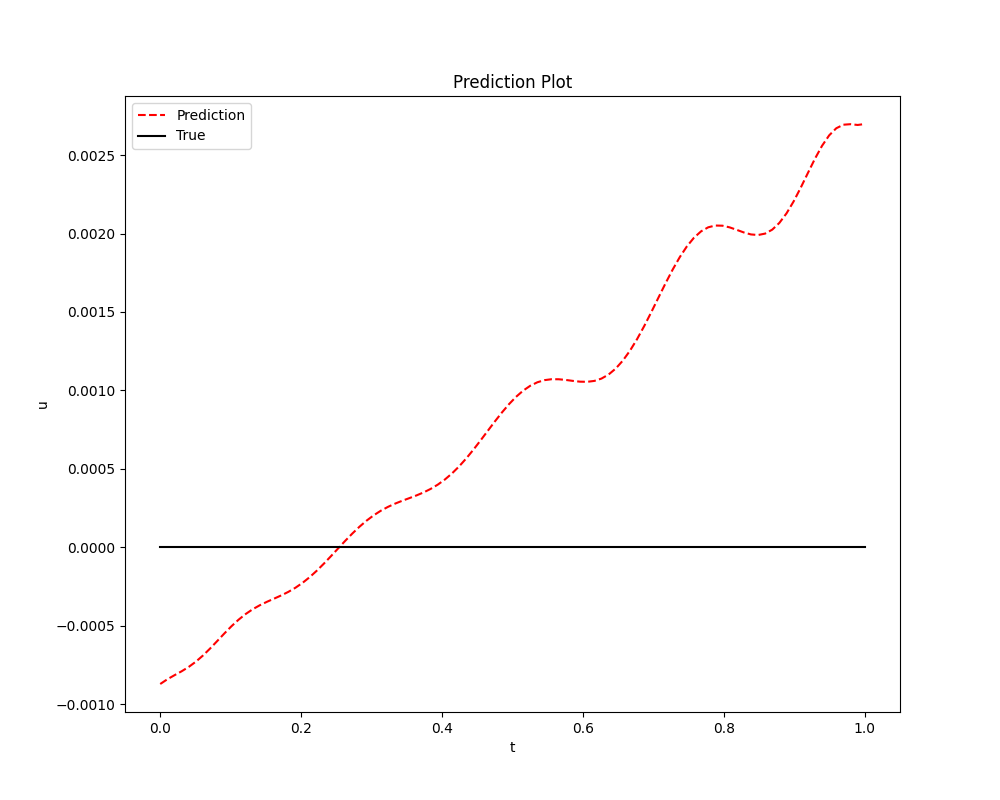
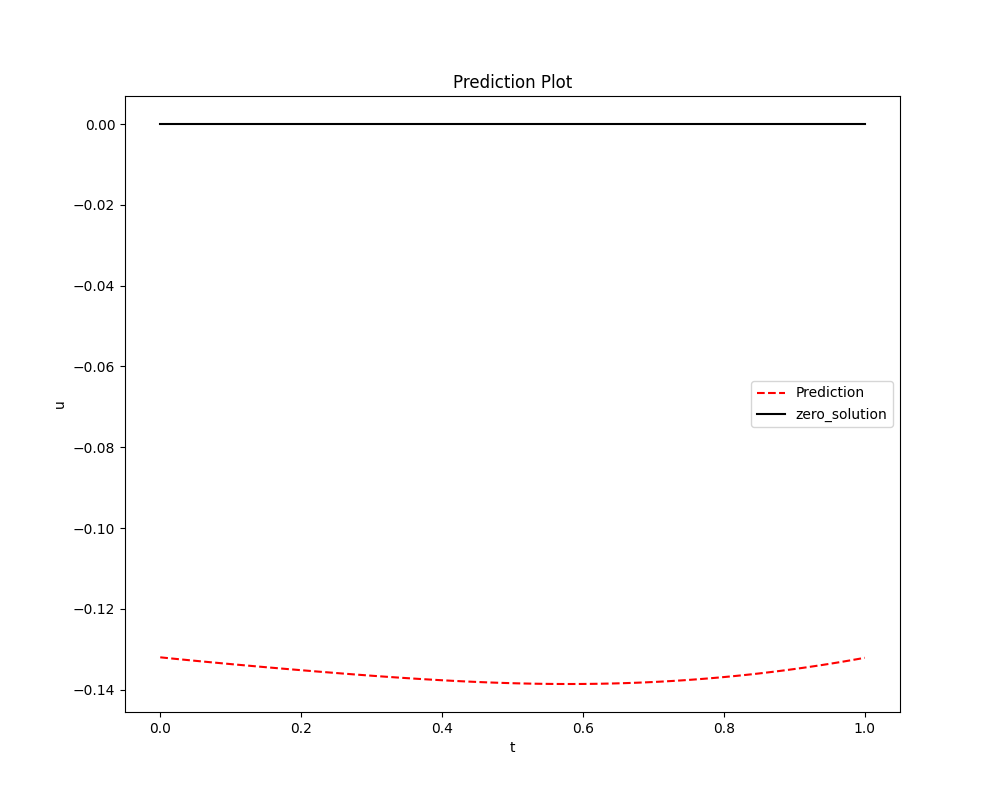
‘new’

diff --git a/pde_solver.py b/pde_solver.py
@@ -7,11 +7,10 @@ import math
 tf.keras.backend.set_floatx('float64')
 
 def sine_activation(x):
-    return tf.sin(2*math.pi*x)
+    return tf.sin(2 * math.pi * x)
 
 NN = tf.keras.models.Sequential([
     tf.keras.layers.Input((1,)),
-    tf.keras.layers.Dense(units=32, activation=sine_activation),
     tf.keras.layers.Dense(units=32, activation=sine_activation),
     tf.keras.layers.Dense(units=1)
 ])
@@ -21,7 +20,7 @@ NN.summary()
 optm = tf.keras.optimizers.Adam(learning_rate=0.001)
 
 def ode_system(t, net):
-    t = tf.constant(t.reshape(-1, 1), dtype=tf.float64)
+    t = tf.reshape(t, [-1, 1])
     t_0 = tf.zeros((1, 1), dtype=tf.float64)
     t_1 = tf.ones((1, 1), dtype=tf.float64)
     zeros = tf.zeros((1, 1), dtype=tf.float64)
@@ -36,24 +35,24 @@ def ode_system(t, net):
     u_tt = tape1.gradient(u_t, t)
     u_t2 = 2 * u * u_t  # Chain rule for derivative of u*u with respect to t
 
-    ode_loss = - u_tt + u_t2
+    ode_loss = - u_tt + u_t2 + tf.sin(t/10)
     IC_loss = net(t_0) - zeros
     EC_loss = net(t_1) - zeros
     BC_loss = net(t_1) - net(t_0)
 
-    square_loss = tf.square(ode_loss) + tf.square(BC_loss) + tf.square(IC_loss) + tf.square(EC_loss)
+    square_loss = tf.square(ode_loss) + tf.square(BC_loss)
     total_loss = tf.reduce_mean(square_loss)
 
     del tape1  # Clean up
 
-    return total_loss
+    return total_loss, ode_loss
 
-train_t = np.linspace(0, 1, 100).reshape(-1, 1).astype(np.float64)
+train_t = np.linspace(0, 1, 1001).reshape(-1, 1).astype(np.float64)
 train_loss_record = []
 
-for itr in range(2000):
+for itr in range(3000):
     with tf.GradientTape() as tape:
-        train_loss = ode_system(train_t, NN)
+        train_loss, _ = ode_system(tf.constant(train_t), NN)
         train_loss_record.append(train_loss.numpy())
 
         grad_w = tape.gradient(train_loss, NN.trainable_variables)
@@ -76,67 +75,98 @@ test_t = np.linspace(0, 1, 100).astype(np.float64)
 pred_u = NN.predict(test_t).ravel()
 
 ## TODO For the Neural Network above, find the bound for the derivative of F_approx (using Summation)
-def spectral_norm(matrix):
-    singular_values = tf.linalg.svd(matrix, compute_uv=False)
-    return tf.reduce_max(singular_values)
+def NN_derivative(t, net):
+    """
+    Compute the derivative of the neural network 
+    """
+    # Ensure t is a tensor and has the correct shape
+    t = tf.convert_to_tensor(t, dtype=tf.float64)
+    t = tf.reshape(t, [-1, 1])
+    
+    with tf.GradientTape() as tape:
+        tape.watch(t)
+        u = net(t)
+    
+    u_t = tape.gradient(u, t)
+    return u_t
 
-# Function to calculate the Lipschitz constant for the neural network
-def calculate_lipschitz_constant(model):
-    max_derivative = 2 * np.pi  # Maximum absolute value of derivative of sine(2πx)
-    lipschitz_constant = 1.0
-    for layer in model.layers:
-        if isinstance(layer, tf.keras.layers.Dense):
-            weights = layer.get_weights()[0]
-            norm = spectral_norm(weights)
-            lipschitz_constant *= norm * max_derivative
-    return lipschitz_constant
+def F_derivative(t, net):
+    """
+    Compute the value of the derivative function:
+    - d^3f/dx^3 + 2 * ((df/dx)^2 + f * d^2f/dx^2)
+    """
+    t = tf.convert_to_tensor(t, dtype=tf.float64)
+    t = tf.reshape(t, [-1, 1])
+    
+    with tf.GradientTape(persistent=True) as tape3:
+        tape3.watch(t)
+        with tf.GradientTape(persistent=True) as tape2:
+            tape2.watch(t)
+            with tf.GradientTape() as tape1:
+                tape1.watch(t)
+                f = net(t)
+            df_dx = tape1.gradient(f, t)
+        d2f_dx2 = tape2.gradient(df_dx, t)
+    d3f_dx3 = tape3.gradient(d2f_dx2, t)
+    
+    result = -d3f_dx3 + 2 * ((df_dx ** 2) + f * d2f_dx2)
+    
+    del tape1, tape2, tape3  # Clean up
+    
+    return result
 
-# Calculate the Lipschitz constant
-lipschitz_constant = calculate_lipschitz_constant(NN)
-print(f"Lipschitz constant: {lipschitz_constant}")
+def Lipschitz_constant(t, net):
+    constant = NN_derivative(t, net) * F_derivative(t, net)
+    return constant
 
 
 ## TODO Lipshitz methods
+
+# Function to calculate the residuals
+def calculate_residuals(t, net):
+    t_tensor = tf.constant(tf.reshape(t, [-1, 1]), dtype=tf.float64)
+    _, residuals = ode_system(t_tensor, net)
+    return residuals
+
+
+
 # Define the points where we need to evaluate the error
 x_points = np.linspace(0, 1, 1001).astype(np.float64)
-x_i = x_points[::100]  # For simplicity, taking every 100th point as x_i
+x_i = x_points
+
+# Calculate the Lipschitz constant
+lipschitz_constant = Lipschitz_constant(x_i, NN)
+print(f"Lipschitz constant: {lipschitz_constant}")
 
 # Calculate the difference bound
 error_bounds = []
-for x in x_points:
-    nearest_x_i = min(x_i, key=lambda xi: abs(x - xi))  # Find the nearest x_i
-    error_bound = lipschitz_constant * abs(x - nearest_x_i)
+for i,x in enumerate(x_points):
+    error_bound = lipschitz_constant[i][0] * 1/1000
     error_bounds.append(error_bound)
 
-# Convert to numpy array for easier manipulation
 error_bounds = np.array(error_bounds)
 
-# Evaluate the model at these points
-predictions = NN.predict(x_points).ravel()
+residuals = calculate_residuals(x_i, NN).numpy().ravel()
 
-# Calculate the total error bound
-total_errors = np.abs(predictions) + error_bounds
+# |F(f_approx)(x)| < | F(f)(x_i)| (Known) + | F(f)(x) - F(f)(x_i) |
+total_errors = np.abs(residuals) + error_bounds[:len(residuals)]
 
-# Print or plot the error bounds and predictions
-import matplotlib.pyplot as plt
 
 plt.figure(figsize=(10, 8))
-plt.plot(x_points, predictions, '--r', label='Prediction')
-plt.plot(x_points, error_bounds, ':b', label='Error Bound')
-plt.plot(x_points, total_errors, '-g', label='Total Error')
+plt.plot(x_points[:len(residuals)], residuals, '--r', label='Residuals')
+plt.plot(x_points[:len(residuals)], error_bounds[:len(residuals)], ':b', label='Error Bound')
+plt.plot(x_points[:len(residuals)], total_errors, '-g', label='Total Error')
 plt.xlabel('x')
 plt.ylabel('F(f_approx)(x)')
 plt.legend()
 plt.title('Prediction and Error Bound')
-plt.show()
-
+plt.savefig("Error.png")
 
 NN.save('best_model.h5')
 
-
 plt.figure(figsize=(10, 8))
 plt.plot(test_t, pred_u, '--r', label='Prediction')
-plt.plot(test_t, 0 * test_t, '-k', label='True')
+plt.plot(test_t, 0 * test_t, '-k', label='zero_solution')
 plt.legend()
 plt.xlabel('t')
 plt.ylabel('u')

diff --git a/README.md b/README.md
@@ -8,7 +8,7 @@ find the derivative of F_approx and record the best neural network with least er
 
 
 |f(x) - f(y)| < c * |x - y|
-| F_approx(f(x_i)) | < c
+| F_approx(x_i) | < c
 
 check: F_approx(x) < 1/1000 for x = 0, 1/1000, 2/1000, ...
 
